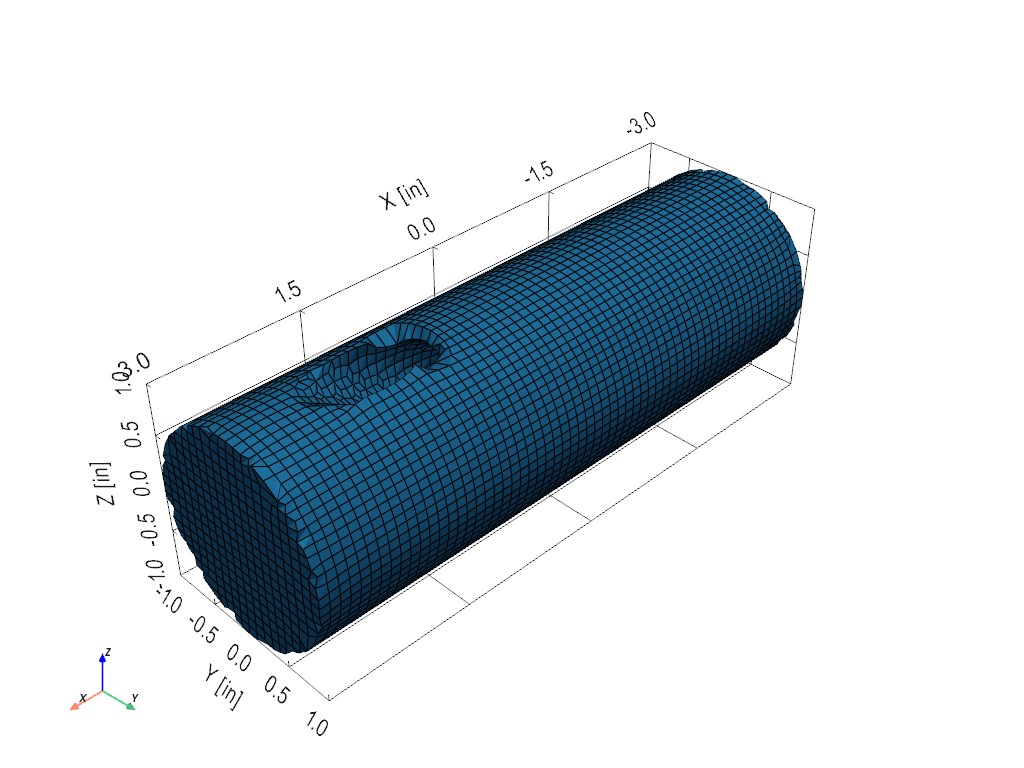
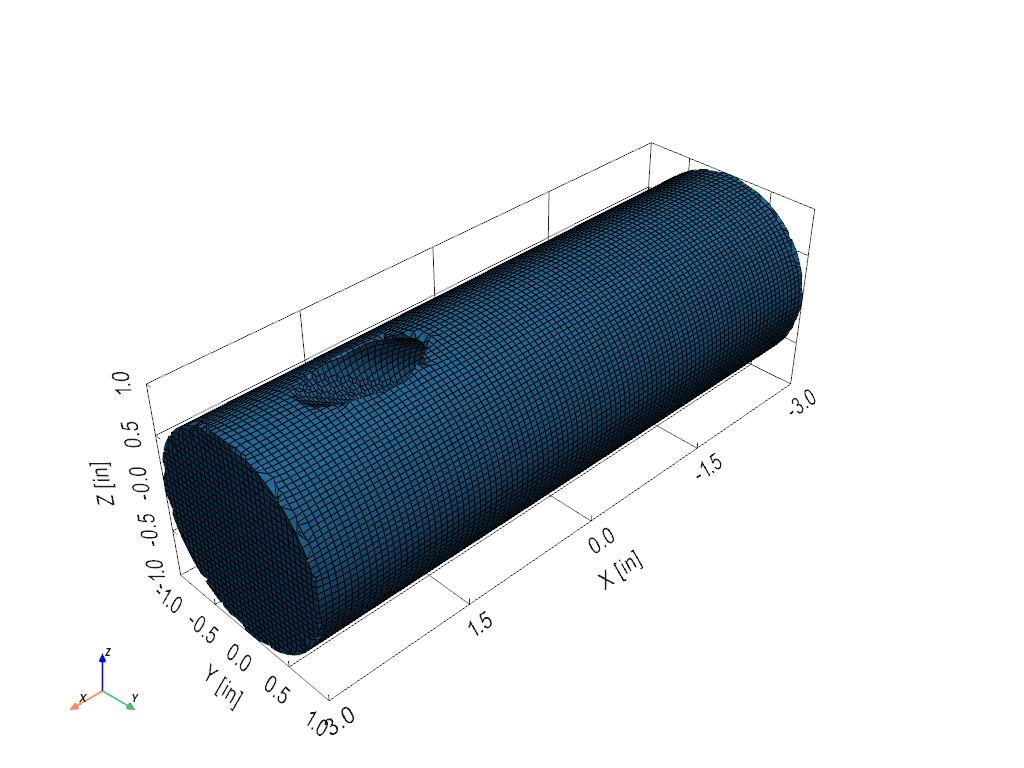
0.1.0a61: the tetrahedra aim at the median edge; Hexes and Tetras; Detect Element Size and the check before a fit

diff --git a/src/visualdynamics/demo/shapes.py b/src/visualdynamics/demo/shapes.py
@@ -13,8 +13,11 @@ cylinders and their booleans, in inches:
     found = shapes.mesh(project, 'hexes')        # or 'tetras'
     print(found['count'], found['quality'], found['volume_error'])
 
-`report` meshes a shape both ways at its size and gives the numbers
-the guide's table shows: the element count, the worst element (the
+A shape is meshed, unless a size is given, at the size Detect Element
+Size gives for the element type (`core.hexmesh.suggested_size`: the
+smallest radius over five for bricks fitted to the shape, over three
+for tetrahedra). `report` meshes a shape both ways and gives the
+numbers the guide's table shows: the size, the element count, the worst element (the
 scaled Jacobian of a brick, the radius ratio of a tetrahedron, 1 for a
 perfect element and 0 for a flat one), how many are under 0.3, the
 mesh's volume against the recipe's, and the seconds taken.
@@ -36,9 +39,6 @@ from ..core import fem, hexmesh, solids, tetmesh
 
 INCH = 0.0254
 
-#: the element size each shape is meshed at for the guide, in inches:
-#: three to five elements across the smallest feature
-SIZES = {'shaft': 0.1, 'wye': 0.1, 'v_block': 0.2}
 #: each shape's project, by its key
 TITLES = {'shaft': 'Cross-drilled shaft', 'wye': 'Wye fitting', 'v_block': 'V-block'}
 
@@ -128,13 +128,13 @@ def mesh_volume(geometry: Any) -> float:
 
 def mesh(project: Project, elements: str, size: float | None = None) -> dict:
     """Mesh the project's one geometry's parts into `elements`, 'hexes'
-    or 'tetras', at `size` in inches (the shape's `SIZES` entry by
-    default), and measure the result.
+    or 'tetras', at `size` in inches (by default the size Detect
+    Element Size gives for the element type), and measure the result.
 
     Returns
     -------
     dict
-        'count', the elements; 'quality', the worst element's scaled
+        'size', in inches; 'count', the elements; 'quality', the worst element's scaled
         Jacobian (bricks) or radius ratio (tets); 'poor', how many are
         under 0.3; 'volume', the mesh's, and 'recipe_volume', the
         recipe's, in cubic inches; 'volume_error', the mesh's less the
@@ -146,14 +146,15 @@ def mesh(project: Project, elements: str, size: float | None = None) -> dict:
     name = project.names[0]
     geometry = project[name]
     ids = [s.id for s in solids.top_level(geometry)]
+    elements = {'bricks': 'hexes', 'tets': 'tetras'}.get(elements, elements)
     if size is None:
-        size = SIZES[next(key for key, title in TITLES.items() if title == project.name)]
+        size = hexmesh.suggested_size(geometry, ids, elements) / INCH
     started = time.perf_counter()
     try:
         found = project.mesh_solids(name, ids, size, unit='in', elements=elements)
     except ValueError as refusal:
         # recorded as it stands: the table says what was refused and why
-        return {'count': 0, 'quality': float('nan'), 'poor': 0, 'volume': float('nan'),
+        return {'size': size, 'count': 0, 'quality': float('nan'), 'poor': 0, 'volume': float('nan'),
                 'recipe_volume': recipe_volume(geometry, ids) / INCH ** 3,
                 'volume_error': float('nan'), 'seconds': time.perf_counter() - started,
                 'method': 'refused', 'refusal': str(refusal)}
@@ -163,7 +164,7 @@ def mesh(project: Project, elements: str, size: float | None = None) -> dict:
     quality = found['quality'] if elements == 'tetras' or found.get('method') == 'overlay' \
         else _brick_quality(geometry)
     poor = found['poor'] if 'poor' in found else int((_brick_qualities(geometry) < 0.3).sum())
-    return {'count': found['tets'] if elements == 'tetras' else found['bricks'],
+    return {'size': size, 'count': found['tets'] if elements == 'tetras' else found['bricks'],
             'quality': float(quality), 'poor': int(poor), 'volume': volume,
             'recipe_volume': recipe, 'volume_error': (volume - recipe) / recipe,
             'seconds': seconds,
@@ -183,21 +184,22 @@ def _brick_quality(geometry: Any) -> float:
 
 def report(name: str, size: float | None = None) -> dict:
     """Both meshes of the shape `name` ('shaft', 'wye' or 'v_block') at
-    `size` in inches (its `SIZES` entry by default): {'hexes': ...,
-    'tetras': ...}, each as `mesh` gives it, each on a fresh build."""
+    `size` in inches (each at its detected size by default): {'hexes':
+    ..., 'tetras': ...}, each as `mesh` gives it, each on a fresh
+    build."""
     found = {}
     for elements in ('hexes', 'tetras'):
         project = SHAPES[name]()
-        found[elements] = mesh(project, elements, size if size is not None else SIZES[name])
+        found[elements] = mesh(project, elements, size)
     return found
 
 
 def _main() -> None:
     for name in SHAPES:
         found = report(name)
-        print(f'{name} at {SIZES[name]} in:')
+        print(f'{name}:')
         for elements, got in found.items():
-            print(f'  {elements:<7} {got["count"]:>8,} elements, worst {got["quality"]:.2f}, '
+            print(f'  {elements:<7} at {got["size"]:.3g} in: {got["count"]:>8,} elements, worst {got["quality"]:.2f}, '
                   f'{got["poor"]:,} under 0.3, volume {got["volume"]:.2f} in^3 '
                   f'({got["volume_error"] * 100:+.2f} %), {got["seconds"]:.1f} s, '
                   f'{got["method"]}')

diff --git a/tests/test_hexmesh.py b/tests/test_hexmesh.py
@@ -73,11 +73,20 @@ def test_a_block_with_an_angled_hole_is_fitted_round_and_sharp():
     assert volume == pytest.approx(expected, rel=0.01)
 
 
-def test_brandons_angled_block_is_refused_at_a_half_inch():
+def test_a_fit_that_folds_is_refused_with_the_count(monkeypatch):
+    """Whether a given size folds differs by machine (the public runner
+    fit at 0.5 in what this one did not), so the refusal is forced: a
+    fit whose every brick reads inside out is refused with the count."""
     project, name, geometry = _project()
-    cut, _union = _angled(project, name)
-    with pytest.raises(ValueError, match='folded fitting the shape at that size'):
-        hexmesh.overlay_mesh(geometry, [cut], 0.5 * INCH)
+    block = project.add_solid_block(name, (0, 0, 0), (2, 1, 1), unit='in')
+    tilted = project.add_solid_cylinder(name, (0, 0, 0), 0.3, 3.0, angles=(30, 0, 0),
+                                        unit='in')
+    cut = project.combine_solids(name, 'subtract', [block, tilted])
+    monkeypatch.setattr(hexmesh, '_scaled_jacobians',
+                        lambda xyz, hexes: np.full((len(hexes), 8), -1.0))
+    with pytest.raises(ValueError, match=r'\d+ bricks folded fitting the shape at that size'):
+        hexmesh.overlay_mesh(geometry, [cut], 0.25 * INCH)
+    assert hexmesh.likely_to_fold(geometry, [cut], 0.5 * INCH)['across'] == pytest.approx(0.6)
 
 
 @pytest.mark.slow
@@ -240,6 +249,17 @@ def test_the_smallest_feature_and_the_size_suggested_from_it():
     plain = project.add_solid_block(name, (20, 0, 0), (2, 1, 1), unit='in')
     assert hexmesh.smallest_feature(geometry, [plain]) == (np.inf, pytest.approx(1.0 * INCH))
     assert hexmesh.suggested_size(geometry, [plain]) == pytest.approx(1.0 / 3.0 * INCH)
+    # a pipe's wall is the gap between coaxial radii: the wye's 0.3 in,
+    # so its tetrahedra are suggested at 0.1 in (three through), its
+    # bricks at the branch bore's radius over five
+    from visualdynamics.demo import shapes
+    wye = shapes.wye()
+    wye_geometry = wye[wye.names[0]]
+    wye_cut = solids.top_level(wye_geometry)[0].id
+    assert hexmesh.smallest_feature(wye_geometry, [wye_cut]) == (
+        pytest.approx(0.45 * INCH), pytest.approx(0.3 * INCH))
+    assert hexmesh.suggested_size(wye_geometry, [wye_cut], 'tetras') == pytest.approx(0.1 * INCH)
+    assert hexmesh.suggested_size(wye_geometry, [wye_cut]) == pytest.approx(0.09 * INCH)
     # the extrusion rule reads the same walls: the tilted hole's caps,
     # projected onto the nearest axis by the grid's cuts, are not walls
     # (the pane opened at 0.95 in on this block for them)
@@ -319,18 +339,27 @@ def test_detect_element_size_and_the_question_before_a_fit(window, pump, monkeyp
 
     answers = ['cancel', 'suggested']
     monkeypatch.setattr(window, '_ask_mesh_anyway', answer)
+    # the mesh itself is not run: whether 0.08 in fits differs by
+    # machine, and what is pinned here is the question and the size
+    # handed on
+    meshed = []
+
+    def record(name, ids, size, **kwargs):
+        meshed.append(size)
+        return {'bricks': 0, 'nodes': 0, 'added': 0, 'shared': 0, 'groups': [],
+                'replaced': 0, 'method': 'overlay'}
+
+    monkeypatch.setattr(window.project, 'mesh_solids', record)
     panel.size.setValue(0.2)
     _settled(window, pump)
-    journal = len(project.journal)
     panel.mesh_button.click()
     pump()
-    assert len(project.journal) == journal, 'cancelled: nothing meshed'
+    assert meshed == [], 'cancelled: nothing meshed'
     assert asked[-1][1] == 'Mesh at 0.08 in' and asked[-1][2] == 'Mesh at 0.2 in anyway'
     assert 'is 2.0 bricks across its radius' in asked[-1][0] and '0.08 in is likely to hold' in asked[-1][0]
     panel.mesh_button.click()
     pump()
-    assert len(project.journal) == journal + 1 and ', 0.08, unit=' in project.journal[-1]
-    assert panel.size.value() == pytest.approx(0.08) or True   # the pane closes after Mesh
+    assert meshed == [pytest.approx(0.08)]
     # a size that is likely to hold asks nothing
     _pick(window, pump, _rows(window, 'solid')[:1])
     _acts(window)['mesh_solids'][3]()
@@ -340,4 +369,4 @@ def test_detect_element_size_and_the_question_before_a_fit(window, pump, monkeyp
     before = len(asked)
     panel.mesh_button.click()
     pump()
-    assert len(asked) == before and len(project.journal) == journal + 2
+    assert len(asked) == before and meshed == [pytest.approx(0.08)] * 2

diff --git a/tools/make_shape_pictures.py b/tools/make_shape_pictures.py
@@ -5,7 +5,8 @@
     ./.venv/bin/python tools/make_shape_pictures.py            # all three
     ./.venv/bin/python tools/make_shape_pictures.py v_block    # one
 
-Each shape is meshed with bricks and with tetrahedra at its size, the
+Each shape is meshed with bricks and with tetrahedra, each at the size
+Detect Element Size gives for it, the
 meshes are rendered by the toolset's own scene (`Geometry.plot`, off
 screen) into docs/guide/images/shapes-<shape>-<elements>.png, and the
 table the page carries is printed, one row per mesh: the count, the
@@ -36,7 +37,7 @@ def main(keys: list[str]) -> None:
         for elements in ('hexes', 'tetras'):
             project = shapes.SHAPES[key]()
             got = shapes.mesh(project, elements)
-            rows.append((shapes.TITLES[key], shapes.SIZES[key], elements, got))
+            rows.append((shapes.TITLES[key], got['size'], elements, got))
             if got['method'] == 'refused':
                 print(f'{key} {elements}: {got["refusal"]}', file=sys.stderr)
                 continue
@@ -49,11 +50,11 @@ def main(keys: list[str]) -> None:
     print('|---|---|---|---|---|---|---|---|---|---|')
     for title, size, elements, got in rows:
         if got['method'] == 'refused':
-            print(f'| {title} | {size} | {elements} | refused: '
+            print(f'| {title} | {size:.3g} | {elements} | refused: '
                   f'{got["refusal"].split(" fitting")[0]} | | | | '
                   f'{got["recipe_volume"]:.2f} | | {got["seconds"]:.0f} |')
             continue
-        print(f'| {title} | {size} | {elements} | {got["count"]:,} | {got["quality"]:.2f} | '
+        print(f'| {title} | {size:.3g} | {elements} | {got["count"]:,} | {got["quality"]:.2f} | '
               f'{got["poor"]:,} | {got["volume"]:.2f} | {got["recipe_volume"]:.2f} | '
               f'{got["volume_error"] * 100:+.2f} % | {got["seconds"]:.0f} |')
 

diff --git a/src/visualdynamics/core/solids.py b/src/visualdynamics/core/solids.py
@@ -1477,6 +1477,23 @@ def smallest_feature(geometry: Any, ids) -> tuple[float, float]:
     spans = [b - a for k in range(3)
              for a, b in pairwise(sorted(x for x in planes[k] if low[k] - 1e-9 <= x <= high[k] + 1e-9))
              if b - a > 1e-9 * (high[k] - low[k])]
+    # a pipe's wall: the gap between the radii of two cylinders on one
+    # axis (a wye's 0.3 in walls read as 6 in, its run's length,
+    # without this)
+    cylinders = [leaf for leaf in leaves if leaf.kind == 'cylinder']
+    for a_index, a in enumerate(cylinders):
+        axis_a = _frame(a)[2]
+        for b in cylinders[a_index + 1:]:
+            axis_b = _frame(b)[2]
+            if abs(abs(float(axis_a @ axis_b)) - 1.0) > 1e-9:
+                continue
+            between = np.asarray(b.center, dtype=float) - np.asarray(a.center, dtype=float)
+            off_axis = between - float(between @ axis_a) * axis_a
+            if np.linalg.norm(off_axis) > 1e-9 * (a.radius + b.radius):
+                continue
+            gap = abs(a.radius - b.radius)
+            if gap > 0.0:
+                spans.append(gap)
     return (float(min(radii)) if radii else np.inf, float(min(spans)) if spans else np.inf)
 
 

diff --git a/src/visualdynamics/core/hexmesh.py b/src/visualdynamics/core/hexmesh.py
@@ -193,9 +193,9 @@ THROUGH = 3.0
 def suggested_size(geometry: Any, ids, elements: str = 'hexes') -> float:
     """An element size at which a mesh of the parts is likely to hold:
     for bricks fitted to a shape, the smallest radius over `ACROSS`
-    (five bricks across it, where every fit measured has held and four
+    (five bricks across it, where most fits measured have held and four
     has folded) and the thinnest wall over `THROUGH`; for tetrahedra,
-    three across the radius and two through the wall. With no round
+    three across the radius and three through the wall. With no round
     feature and no wall, `solids.mesh_size`.
 
     Parameters
@@ -214,7 +214,7 @@ def suggested_size(geometry: Any, ids, elements: str = 'hexes') -> float:
     from .solids import mesh_size
 
     radius, wall = smallest_feature(geometry, ids)
-    across, through = (ACROSS, THROUGH) if elements == 'hexes' else (3.0, 2.0)
+    across, through = (ACROSS, THROUGH) if elements == 'hexes' else (3.0, 3.0)
     size = min(radius / across, wall / through)
     return float(size) if np.isfinite(size) else mesh_size(geometry, ids)
 

diff --git a/tests/test_tetmesh.py b/tests/test_tetmesh.py
@@ -129,6 +129,7 @@ def test_a_block_meshes_into_tets_of_exactly_its_volume():
     volumes = np.einsum('ij,ij->i', b - a, np.cross(c - a, d - a)) / 6.0
     assert (volumes > 0).all(), 'every tetrahedron the right way out'
     assert volumes.sum() == pytest.approx(2.0, abs=1e-9)
+    assert volumes.min() > 1e-6 * (0.25 * INCH) ** 3, 'no tetrahedron of no volume'
     assert set(part.elem_type) == {111} and list(part.group_name) == ['bar']
     assert made['tets'] == len(conn) and made['steps'] < tetmesh.MOST_STEPS
     assert made['quality'] > 0.1 and made['poor'] < 0.03 * made['tets']

diff --git a/src/visualdynamics/core/tetmesh.py b/src/visualdynamics/core/tetmesh.py
@@ -636,6 +636,10 @@ def _tetrahedra(fd, points, nfixed, size, extent):
     # worst at zero (2026-10-19)
     hugging = np.abs(fd(p)) < HUGGING * size
     sliver = (quality < SLIVER) & hugging[tets].all(axis=1)
+    # and one of no volume at all, wherever it lies: the solver refuses
+    # it, and the public runner's triangulation left one inside a bar
+    # that this machine's did not (2026-10-19)
+    sliver |= np.abs(volume) <= 1e-9 * size ** 3
     return p, tets[~sliver], quality[~sliver], int(sliver.sum())
 
 

diff --git a/docs/guide/workflows/mesh-shapes.md b/docs/guide/workflows/mesh-shapes.md
@@ -7,10 +7,13 @@ everything else, so nothing can be swept along an axis. They are here
 to show what the two meshers for such shapes do today, bricks on a
 grid fitted to the shape and ten-node tetrahedra, with the numbers
 beside the pictures. The meshers will improve; the numbers are the
-record of where they stand, and at the sizes below that record is
-that the tetrahedra mesh all three well, the fitted bricks mesh the
-shaft, and on the wye and the V-block they fold a few elements and
-are refused with the reason.
+record of where they stand. Each is meshed at the size *Detect
+Element Size* gives for the element type, the smallest round
+feature's radius over five for bricks and over three for tetrahedra
+(three through the thinnest wall for either): at those sizes the
+tetrahedra mesh all three well, the fitted bricks mesh the shaft, and
+on the wye and the V-block they fold a few elements and are refused
+with the reason.
 
 Each shape is built from the recipe alone, blocks and cylinders and
 their booleans, by `visualdynamics.demo.shapes`:
@@ -46,7 +49,8 @@ are on a laptop, meshing alone.
 
 A 2 in shaft, 6 in long, with a 0.6 in oil hole drilled through its
 middle at 30 degrees to its axis, the way an oil passage crosses a
-crankshaft. Three elements across the hole's radius at 0.1 in.
+crankshaft. Five bricks across the hole's radius at 0.06 in, three
+tetrahedra at 0.1 in.
 
 ![The shaft meshed into bricks fitted to it](../images/shapes-shaft-hexes.png)
 
@@ -55,8 +59,9 @@ crankshaft. Three elements across the hole's radius at 0.1 in.
 ## The wye fitting
 
 A 2 in run, 6 in long, with a 1.5 in branch leaving it at 45 degrees,
-both bored, the walls 0.3 in: three elements through the wall at
-0.1 in. The saddle where the branch's bore breaks into the run's is
+both bored, the walls 0.3 in: five bricks across the branch bore's
+radius at 0.09 in, three tetrahedra through the wall at 0.1 in. The
+saddle where the branch's bore breaks into the run's is
 the junction every pipe fitting has and no sweep can follow.
 
 ![The wye meshed into tetrahedra](../images/shapes-wye-tetras.png)
@@ -66,8 +71,8 @@ the junction every pipe fitting has and no sweep can follow.
 A 6 x 5 x 3 in block with a 1.2 in crank bore along its length and two
 banks of three 1 in bores at 45 degrees from vertical, each bore
 running from the crank bore out through the top face: a V-engine's
-block with everything but the bores left out. Two and a half elements
-across a bore's radius at 0.2 in.
+block with everything but the bores left out. Five bricks across a
+bore's radius at 0.1 in, three tetrahedra at 0.167 in.
 
 ![The V-block meshed into tetrahedra](../images/shapes-v-block-tetras.png)
 
@@ -75,25 +80,25 @@ across a bore's radius at 0.2 in.
 
 | Shape | Size (in) | Elements | Count | Worst | Under 0.3 | Volume (in³) | Recipe (in³) | Error | Seconds |
 |---|---|---|---|---|---|---|---|---|---|
-| Cross-drilled shaft | 0.1 | hexes | 24,132 | 0.15 | 169 | 17.70 | 17.75 | -0.25 % | 83 |
-| Cross-drilled shaft | 0.1 | tetras | 193,625 | 0.10 | 1,193 | 17.73 | 17.75 | -0.11 % | 16 |
-| Wye fitting | 0.1 | hexes | refused: 5 bricks folded | | | | 11.82 | | 190 |
-| Wye fitting | 0.1 | tetras | 112,203 | 0.10 | 589 | 11.80 | 11.82 | -0.15 % | 20 |
-| V-block | 0.2 | hexes | refused: 6 bricks folded | | | | 71.74 | | 167 |
-| V-block | 0.2 | tetras | 88,102 | 0.10 | 267 | 71.72 | 71.74 | -0.03 % | 13 |
+| Cross-drilled shaft | 0.06 | hexes | 97,534 | 0.07 | 351 | 17.73 | 17.75 | -0.12 % | 473 |
+| Cross-drilled shaft | 0.1 | tetras | 193,622 | 0.10 | 1,193 | 17.73 | 17.75 | -0.11 % | 12 |
+| Wye fitting | 0.09 | hexes | refused: 5 bricks folded | | | | 11.82 | | 293 |
+| Wye fitting | 0.1 | tetras | 112,199 | 0.10 | 581 | 11.80 | 11.82 | -0.15 % | 21 |
+| V-block | 0.1 | hexes | refused: 3 bricks folded | | | | 71.74 | | 738 |
+| V-block | 0.167 | tetras | 156,686 | 0.10 | 435 | 71.72 | 71.74 | -0.03 % | 23 |
 
 ## What the numbers say
 
-The fitted bricks mesh the shaft, and are refused on the wye and the
-V-block at these sizes, each for a handful of folded bricks out of ten
-to thirty thousand: pillow bricks at the feather edges where a bore
+The fitted bricks mesh the shaft, slowly and with a worst element of
+0.07, and are refused on the wye and the V-block even at five bricks
+across their smallest radius, for five and three folded bricks out of
+tens of thousands: pillow bricks at the feather edges where a bore
 leaves a surface at a shallow angle, where the material is thinner
-than a brick. Both are under five bricks across their smallest
-radius, the line every fit measured so far has held at (the wye's
-branch bore is four and a half across at 0.1 in, the V-block's bores
-two and a half at 0.2 in), and *Detect Element Size* gives 0.067 in
-and 0.1 in for them. The block with a peanut cut and two side holes
-shown under *Mesh Solids* fits at 0.25 in and under. The tetrahedra mesh all three in seconds with no element under
+than a brick at any size. The five-across line that *Detect Element
+Size* uses held on the shapes it was read from (the block with a
+peanut cut and two side holes shown under *Mesh Solids* fits at
+0.25 in and under) and does not hold on these two; the feather edges
+are the fitted mesher's open problem. The tetrahedra mesh all three in seconds with no element under
 a tenth and under a percent of them under 0.3. A feature under about
 three elements across cannot be fitted by either mesher and is
 refused with the reason. Pictures and numbers are regenerated by

diff --git a/docs/guide/objects.md b/docs/guide/objects.md
@@ -354,10 +354,12 @@ shape*) and reads the worst scaled Jacobian (1 for a cube, 0 for a
 flat brick), which comes out between about 0.15 and 0.3 where a ring
 mesh gives 0.5 or better. The fitting takes seconds to minutes, so the
 preview draws it only for a small grid. A feature only a few bricks
-across leaves no room to fit: on every shape measured so far a fit
-has held with five or more bricks across the smallest round feature's
-radius and folded with four or fewer. *Detect Element Size* writes
-that size into the box (the smallest radius over five, or the
+across leaves no room to fit: a fit has held with five or more bricks
+across the smallest round feature's radius on most shapes measured
+and folded with four or fewer on all of them; where a bore leaves a
+surface at a shallow angle, the feather edge there can fold a few
+bricks at any size. *Detect Element Size* writes the five-across size
+into the box (the smallest radius over five, or the
 thinnest wall over three; for an extrusion, half the thinnest
 feature; for tetrahedra, the radius over three), and *Mesh* on a size
 under four and a half across asks first, with the size likely to hold
